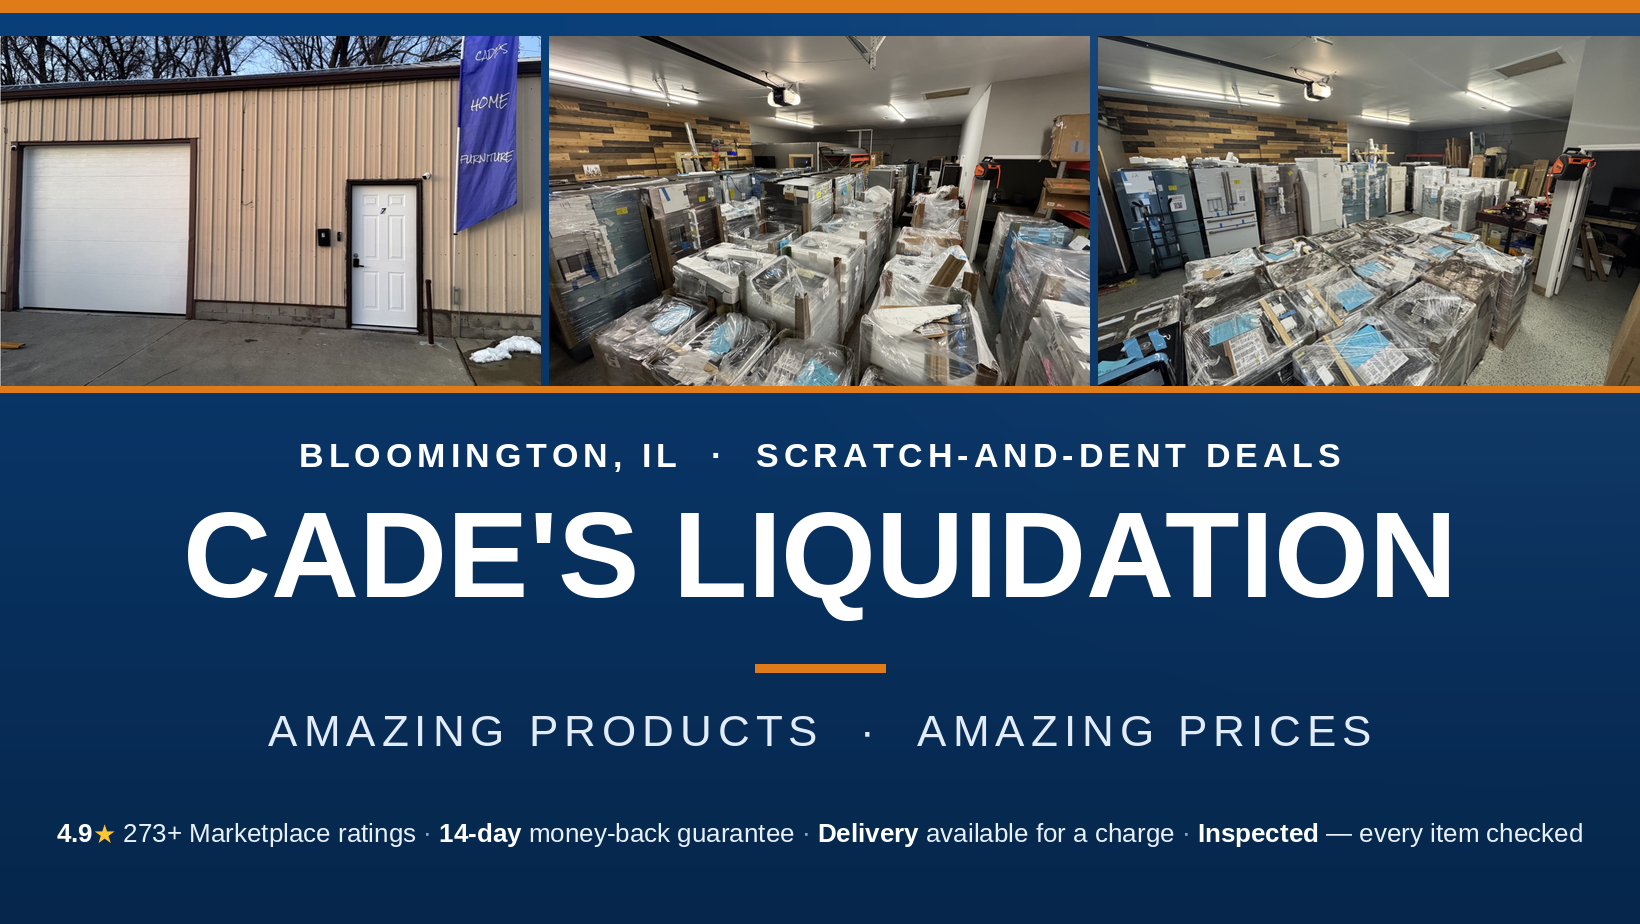
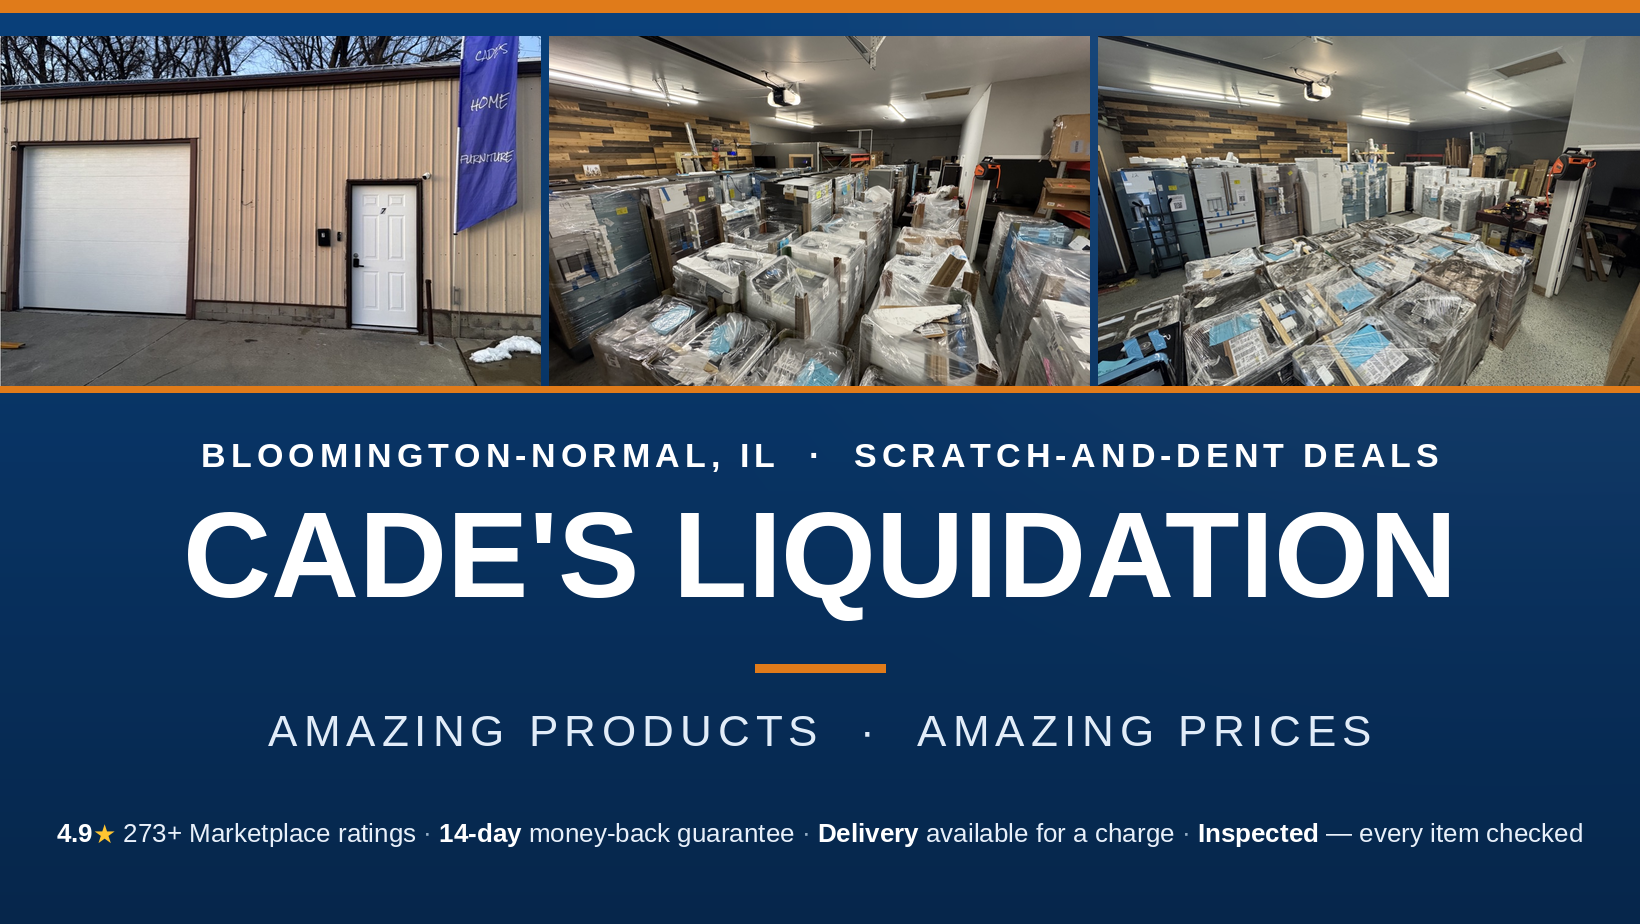
Bloomington -> Bloomington-Normal across site

Changed region(s): [[0.1244, 0.4545, 0.8707, 0.5152]]

diff --git a/about.html b/about.html
@@ -4,7 +4,7 @@
 <meta charset="utf-8">
 <meta name="viewport" content="width=device-width, initial-scale=1">
 <title>About | Cade&#x27;s Liquidation</title>
-<meta name="description" content="About Cade&#x27;s Liquidation: new, scratch-and-dent and used appliances at liquidation prices in Bloomington, IL.">
+<meta name="description" content="About Cade&#x27;s Liquidation: new, scratch-and-dent and used appliances at liquidation prices in Bloomington-Normal, IL.">
 <link rel="stylesheet" href="styles.css?v=19">
 </head>
 <body>
@@ -27,7 +27,7 @@
   <div class="owner">
     <img src="images/cade.jpg" alt="Cade McClellan, owner of Cade's Liquidation" loading="lazy">
     <div>
-      <p>I&rsquo;m <strong>Cade McClellan</strong> &mdash; I&rsquo;ve lived in Bloomington, Illinois
+      <p>I&rsquo;m <strong>Cade McClellan</strong> &mdash; I&rsquo;ve lived in Bloomington-Normal, Illinois
       practically my whole life, and I&rsquo;m currently at ISU working toward my Bachelor of Science
       degree. I&rsquo;ve always had an entrepreneur mindset and a real fascination with businesses
       and having my own.</p>
@@ -59,7 +59,7 @@
   <p>Browse the catalog, find something you like, and get in touch. <strong>By appointment only — call or message to schedule a time to come see anything.</strong>
   We&rsquo;re located at 1206 S Adelaide St Suite 7, Normal, IL (back parking lot, Suite 7, behind Popejoy).
   Every sale includes our 14-day money-back guarantee. Delivery is available for a charge, and sales tax
-  applies. Serving <span data-config="serviceArea">Bloomington, IL</span> and
+  applies. Serving <span data-config="serviceArea">Bloomington-Normal, IL</span> and
   surrounding areas.</p>
   <div class="hero-cta">
     <a class="btn btn-call btn-lg" data-config-href="phoneHref" hidden>Call or text: <span data-config="phone"></span></a>
@@ -71,7 +71,7 @@
   <div class="wrap footer-inner">
     <div>
       <strong data-config="businessName">Cade&#x27;s Liquidation</strong><br>
-      <span data-config="serviceArea">Bloomington, IL</span> &middot;
+      <span data-config="serviceArea">Bloomington-Normal, IL</span> &middot;
       <span data-config="tagline">New &amp; scratch-and-dent appliances at liquidation prices</span>
     </div>
     <div class="footer-contact">

diff --git a/index.html b/index.html
@@ -3,8 +3,8 @@
 <head>
 <meta charset="utf-8">
 <meta name="viewport" content="width=device-width, initial-scale=1">
-<title>Cade&#x27;s Liquidation | New &amp; Scratch-and-Dent Appliances in Bloomington, IL</title>
-<meta name="description" content="Shop new and scratch-and-dent washers, dryers, refrigerators, ranges, freezers, dishwashers and ovens at liquidation prices in Bloomington, IL. 14-day money-back guarantee.">
+<title>Cade&#x27;s Liquidation | New &amp; Scratch-and-Dent Appliances in Bloomington-Normal, IL</title>
+<meta name="description" content="Shop new and scratch-and-dent washers, dryers, refrigerators, ranges, freezers, dishwashers and ovens at liquidation prices in Bloomington-Normal, IL. 14-day money-back guarantee.">
 <link rel="stylesheet" href="styles.css?v=19">
 </head>
 <body>
@@ -23,7 +23,7 @@
 <section class="hero">
   <div class="wrap hero-inner">
     <div class="hero-copy">
-      <p class="eyebrow"><span data-config="serviceArea">Bloomington, IL</span> &middot; Scratch-and-dent deals</p>
+      <p class="eyebrow"><span data-config="serviceArea">Bloomington-Normal, IL</span> &middot; Scratch-and-dent deals</p>
       <h1 data-config="businessName">Cade&#x27;s Liquidation</h1>
       <p class="tagline" data-config="tagline">New &amp; scratch-and-dent appliances at liquidation prices</p>
       <button class="rating rating-btn" id="reviews-open" type="button" title="Read customer reviews"><span class="stars">★★★★★</span> <span class="rating-text" data-config="ratingText">4.9 · 273+ Facebook Marketplace ratings</span></button>
@@ -505,7 +505,7 @@ I highly recommend reaching out. He treated me great!</p><p class="review-meta">
   <div class="wrap footer-inner">
     <div>
       <strong data-config="businessName">Cade&#x27;s Liquidation</strong><br>
-      <span data-config="serviceArea">Bloomington, IL</span> &middot;
+      <span data-config="serviceArea">Bloomington-Normal, IL</span> &middot;
       <span data-config="tagline">New &amp; scratch-and-dent appliances at liquidation prices</span>
     </div>
     <div class="footer-contact">

diff --git a/faq.html b/faq.html
@@ -30,14 +30,14 @@
 <details><summary>Do I need an appointment to come see something?</summary><p>By appointment only — call or message to schedule a time to come see anything.</p></details>
 <details><summary>What condition are the appliances in?</summary><p>Most of our inventory is new (including scratch-and-dent). We also carry select gently used items, always clearly marked with their condition.</p></details>
 <details><summary>How do I buy an item?</summary><p>Find an appliance in the catalog and contact us. We'll confirm availability and arrange pickup or delivery.</p></details>
-<details><summary>Where are you located?</summary><p>We serve Bloomington, IL and the surrounding areas. Contact us for pickup details.</p></details>
+<details><summary>Where are you located?</summary><p>We serve Bloomington-Normal, IL and the surrounding areas. Contact us for pickup details.</p></details>
 </div>
 </main>
 <footer class="site-footer">
   <div class="wrap footer-inner">
     <div>
       <strong data-config="businessName">Cade&#x27;s Liquidation</strong><br>
-      <span data-config="serviceArea">Bloomington, IL</span> &middot;
+      <span data-config="serviceArea">Bloomington-Normal, IL</span> &middot;
       <span data-config="tagline">New &amp; scratch-and-dent appliances at liquidation prices</span>
     </div>
     <div class="footer-contact">

diff --git a/listings/1897886827849609.html b/listings/1897886827849609.html
@@ -59,7 +59,7 @@ Sanitize+ Sensor Dry | 7.2 cu.ft.</p>
   <div class="wrap footer-inner">
     <div>
       <strong data-config="businessName">Cade&#x27;s Liquidation</strong><br>
-      <span data-config="serviceArea">Bloomington, IL</span> &middot;
+      <span data-config="serviceArea">Bloomington-Normal, IL</span> &middot;
       <span data-config="tagline">New &amp; scratch-and-dent appliances at liquidation prices</span>
     </div>
     <div class="footer-contact">

diff --git a/listings/1643544697442082.html b/listings/1643544697442082.html
@@ -63,7 +63,7 @@ GRMS2773AF</p>
   <div class="wrap footer-inner">
     <div>
       <strong data-config="businessName">Cade&#x27;s Liquidation</strong><br>
-      <span data-config="serviceArea">Bloomington, IL</span> &middot;
+      <span data-config="serviceArea">Bloomington-Normal, IL</span> &middot;
       <span data-config="tagline">New &amp; scratch-and-dent appliances at liquidation prices</span>
     </div>
     <div class="footer-contact">

diff --git a/listings/1126693043068885.html b/listings/1126693043068885.html
@@ -61,7 +61,7 @@ Steel</p>
   <div class="wrap footer-inner">
     <div>
       <strong data-config="businessName">Cade&#x27;s Liquidation</strong><br>
-      <span data-config="serviceArea">Bloomington, IL</span> &middot;
+      <span data-config="serviceArea">Bloomington-Normal, IL</span> &middot;
       <span data-config="tagline">New &amp; scratch-and-dent appliances at liquidation prices</span>
     </div>
     <div class="footer-contact">

diff --git a/listings/1011048761394885.html b/listings/1011048761394885.html
@@ -60,7 +60,7 @@
   <div class="wrap footer-inner">
     <div>
       <strong data-config="businessName">Cade&#x27;s Liquidation</strong><br>
-      <span data-config="serviceArea">Bloomington, IL</span> &middot;
+      <span data-config="serviceArea">Bloomington-Normal, IL</span> &middot;
       <span data-config="tagline">New &amp; scratch-and-dent appliances at liquidation prices</span>
     </div>
     <div class="footer-contact">

diff --git a/listings/1026592053773314.html b/listings/1026592053773314.html
@@ -51,7 +51,7 @@
   <div class="wrap footer-inner">
     <div>
       <strong data-config="businessName">Cade&#x27;s Liquidation</strong><br>
-      <span data-config="serviceArea">Bloomington, IL</span> &middot;
+      <span data-config="serviceArea">Bloomington-Normal, IL</span> &middot;
       <span data-config="tagline">New &amp; scratch-and-dent appliances at liquidation prices</span>
     </div>
     <div class="footer-contact">

diff --git a/listings/1041786172053534.html b/listings/1041786172053534.html
@@ -51,7 +51,7 @@
   <div class="wrap footer-inner">
     <div>
       <strong data-config="businessName">Cade&#x27;s Liquidation</strong><br>
-      <span data-config="serviceArea">Bloomington, IL</span> &middot;
+      <span data-config="serviceArea">Bloomington-Normal, IL</span> &middot;
       <span data-config="tagline">New &amp; scratch-and-dent appliances at liquidation prices</span>
     </div>
     <div class="footer-contact">

diff --git a/listings/1108880614997392.html b/listings/1108880614997392.html
@@ -60,7 +60,7 @@
   <div class="wrap footer-inner">
     <div>
       <strong data-config="businessName">Cade&#x27;s Liquidation</strong><br>
-      <span data-config="serviceArea">Bloomington, IL</span> &middot;
+      <span data-config="serviceArea">Bloomington-Normal, IL</span> &middot;
       <span data-config="tagline">New &amp; scratch-and-dent appliances at liquidation prices</span>
     </div>
     <div class="footer-contact">

diff --git a/listings/1384781360536995.html b/listings/1384781360536995.html
@@ -52,7 +52,7 @@
   <div class="wrap footer-inner">
     <div>
       <strong data-config="businessName">Cade&#x27;s Liquidation</strong><br>
-      <span data-config="serviceArea">Bloomington, IL</span> &middot;
+      <span data-config="serviceArea">Bloomington-Normal, IL</span> &middot;
       <span data-config="tagline">New &amp; scratch-and-dent appliances at liquidation prices</span>
     </div>
     <div class="footer-contact">

diff --git a/listings/1449538590452959.html b/listings/1449538590452959.html
@@ -59,7 +59,7 @@
   <div class="wrap footer-inner">
     <div>
       <strong data-config="businessName">Cade&#x27;s Liquidation</strong><br>
-      <span data-config="serviceArea">Bloomington, IL</span> &middot;
+      <span data-config="serviceArea">Bloomington-Normal, IL</span> &middot;
       <span data-config="tagline">New &amp; scratch-and-dent appliances at liquidation prices</span>
     </div>
     <div class="footer-contact">
